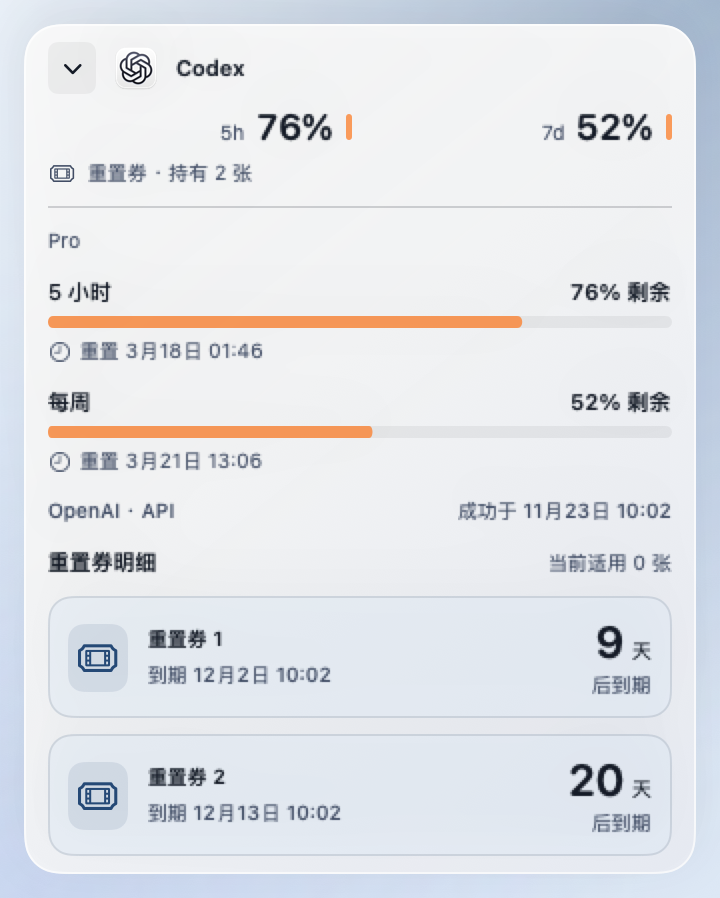
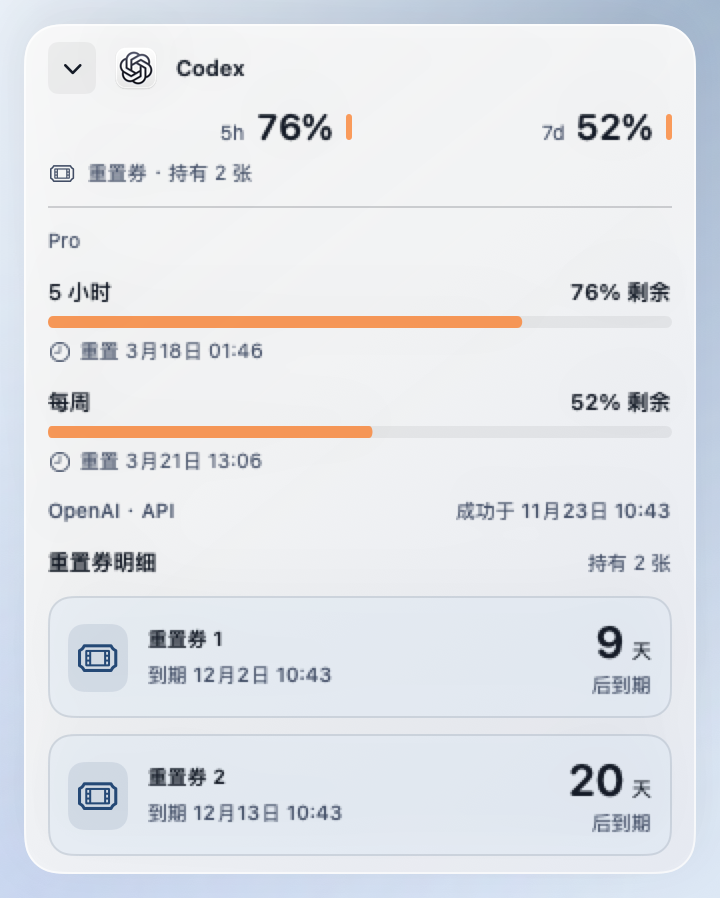
Use owned reset credit counts consistently in v1.4.12
## Summary

```diff
 Expanded reset credit details
- Current applicability: 0
+ Owned credits: 2 (same inventory as the overview)
```

Removes the internal applicability counter from the model and UI so it cannot be mistaken for unavailable or invalid reset credits. Both views use the existing inventory count. Individual cards, expiry dates and the six opt-in reminder stages are unchanged. Updates project documentation and the native preview for v1.4.12 (25).

## Evidence

- **Before:** The user's screenshot shows two owned credit cards beneath a “0 currently applicable” label.
  **After:** Native previews show 2 owned credits in both the overview and expanded header, including the response shape with applicable_available_count=0.
- 179 local tests passed with GET-only real account reads and native popover motion enabled. Existing inventory regression and optional-detail failure tests pass; light/dark and English previews were inspected. Release build passed.

## Merge Danger

**Door:** two-way

**Blast Radius:** macOS

A display/model correction. Does not change reset redemption, expiry notifications or refresh cadence. Windows receives a version bump only.

Changed region(s): [[0.6111, 0.5612, 0.9472, 0.6548], [0.4278, 0.9042, 0.4583, 0.9354], [0.4278, 0.7483, 0.4583, 0.7795]]

diff --git a/Sources/CodexResetCredits.swift b/Sources/CodexResetCredits.swift
@@ -3,17 +3,15 @@ import SwiftUI
 
 struct CodexResetCredits: Equatable, Sendable, Decodable {
     let availableCount: Int
-    let applicableCount: Int?
     var credits: [CodexResetCredit]?
 
-    init(availableCount: Int, applicableCount: Int? = nil, credits: [CodexResetCredit]? = nil) {
+    init(availableCount: Int, credits: [CodexResetCredit]? = nil) {
         self.availableCount = availableCount
-        self.applicableCount = applicableCount
         self.credits = credits
     }
 
     enum CodingKeys: String, CodingKey {
-        case availableCount = "available_count", applicableAvailableCount = "applicable_available_count", credits
+        case availableCount = "available_count", credits
     }
 
     init(from decoder: Decoder) throws {
@@ -23,8 +21,6 @@ struct CodexResetCredits: Equatable, Sendable, Decodable {
             throw DecodingError.dataCorruptedError(forKey: .availableCount, in: c, debugDescription: "Invalid reset count")
         }
         availableCount = count
-        let applicable = try? c.decodeIfPresent(Int.self, forKey: .applicableAvailableCount)
-        applicableCount = applicable.flatMap { (0...count).contains($0) ? $0 : nil }
         credits = try c.decodeIfPresent([CodexResetCredit].self, forKey: .credits)?
             .filter { $0.status == "available" && $0.supported && $0.resetType == "codex_rate_limits" }
             .sorted { ($0.expiresAt ?? .distantFuture, $0.id) < ($1.expiresAt ?? .distantFuture, $1.id) }
@@ -109,8 +105,8 @@ struct CodexResetCreditsDetailView: View {
             HStack {
                 Text(L10n.text("重置券明细")).font(.subheadline.weight(.semibold))
                 Spacer()
-                if let count = model.resetCredits?.applicableCount {
-                    Text(L10n.format("当前适用 %d 张", count)).font(.caption).monitorSecondary()
+                if let snapshot = model.resetCredits {
+                    Text(L10n.format("持有 %d 张", snapshot.availableCount)).font(.caption).monitorSecondary()
                 }
             }
             if let snapshot = model.resetCredits {

diff --git a/Tests/CodexTokenMonitorTests/CodexResetCreditsTests.swift b/Tests/CodexTokenMonitorTests/CodexResetCreditsTests.swift
@@ -19,7 +19,6 @@ private let resetDetailsFixture = """
     let summary = try JSONDecoder().decode(CodexResetCredits.self, from: Data(
         #"{"available_count":3,"applicable_available_count":2}"#.utf8))
     #expect(summary.availableCount == 3)
-    #expect(summary.applicableCount == 2)
     #expect(summary.credits == nil)
     let details = try JSONDecoder().decode(CodexResetCredits.self, from: Data(resetDetailsFixture.utf8))
     #expect(details.availableCount == 2)
@@ -38,7 +37,6 @@ private let resetDetailsFixture = """
     let snapshot = try JSONDecoder().decode(CodexResetCredits.self, from: Data(
         #"{"available_count":2,"applicable_available_count":0}"#.utf8))
     #expect(snapshot.availableCount == 2)
-    #expect(snapshot.applicableCount == 0)
 }
 
 @Test func malformedResetFeatureCannotBreakExistingQuota() throws {
@@ -87,7 +85,6 @@ func resetDetailReadIsOptionalAndUsesOnlyGET(detailsFail: Bool) async throws {
     let result = try await DirectCodexUsageReader(session: session, credentialsURL: url).read()
     #expect(result.primary?.usedPercent == 30)
     #expect(result.resetCredits?.availableCount == 2)
-    #expect(result.resetCredits?.applicableCount == 0)
     #expect(result.resetCredits?.credits?.count == (detailsFail ? nil : 2))
     #expect(result.accountID == "fixture")
 }
@@ -209,7 +206,7 @@ func readsActualCodexResetCreditsWithoutRedeeming() async throws {
     try FileManager.default.createDirectory(at: output, withIntermediateDirectories: true)
     let suite = "reset-preview-\(UUID())", defaults = try #require(UserDefaults(suiteName: suite))
     defer { defaults.removePersistentDomain(forName: suite) }
-    let snapshot = CodexResetCredits(availableCount: 2, applicableCount: 0, credits: [
+    let snapshot = CodexResetCredits(availableCount: 2, credits: [
         .init(id: "first", expiresAt: .now.addingTimeInterval(9.0 * 86400)),
         .init(id: "later", expiresAt: .now.addingTimeInterval(20.0 * 86400))])
     let model = UsageModel(defaults: defaults, readUsage: {

diff --git a/Sources/AppMain.swift b/Sources/AppMain.swift
@@ -1560,7 +1560,6 @@ struct DirectCodexUsageReader {
             if let details = await resetDetails {
                 limits.resetCredits = CodexResetCredits(
                     availableCount: details.availableCount,
-                    applicableCount: payload.resetCredits?.applicableCount,
                     credits: details.credits)
             }
             limits.accountID = auth.tokens.accountID

diff --git a/docs/usage.md b/docs/usage.md
@@ -94,7 +94,7 @@
 
 只检查已启用供应商的本次成功数据，菜单缓存、等待中、缺失数据和错误均不当作零额度。相同低额度不会反复提醒；百分比恢复到阈值以上至少 5 个百分点，或余额恢复到阈值以上至少 $0.50 / 阈值的 10%（取较大值）后，才重新允许提醒。恢复通知需先观察到低额度。临时刷新失败需连续 3 次已完成的失败读取才提醒；登录或密钥异常及已暂停的读取可立即提醒，每次故障只提醒一次，成功读取后重置。
 
-Codex 卡片显示持有的重置券次数，展开后可查看每张券的到期时间（系统本地时区）和剩余天数。接口未提供有效期时显示暂不可用；刷新中保留旧值，旧有效期会标明来源，不把读取失败当成零次。持有数量与当前适用数量分别显示，当前适用为 0 不代表没有持有的券。Monitor 只读取信息，不兑换重置券。
+Codex 卡片显示持有的重置券次数，展开后可查看每张券的到期时间（系统本地时区）和剩余天数。接口未提供有效期时显示暂不可用；刷新中保留旧值，旧有效期会标明来源，不把读取失败当成零次。概览与明细统一显示持有数量，不使用其他内部计数判断重置券是否可用。实际兑换条件请在 Codex 中确认。Monitor 只读取信息，不兑换重置券。
 
 “重置券即将到期”默认关闭；需同时开启通知总开关和该类别。成功读取到有效期后，在到期前 24、12、6、3、1.5、0.5 小时递进提醒，每张券每阶段一次，并跨重启去重；重新启动或恢复监测时仅提醒当前阶段，不补发错过的阶段；已过期、已使用、当前套餐不支持或没有有效期的券不会触发提醒。
 

diff --git a/README.md b/README.md
@@ -16,7 +16,7 @@ Codex Token Monitor 是一个原生桌面额度监控工具。macOS 支持多供
 - **菜单栏常驻**：双行额度、重置时间、固定来源或自动轮播；Windows 在系统托盘显示 Codex 余量。
 - **紧凑概览**：弹窗按内容自动调整高度，最多占所在屏幕可用高度的一半，超出部分滚动查看；可单独或全部展开明细。
 - **稳定刷新**：查询中保留最近一次成功显示，相同结果不重复更新；失败、缺失数据和真实零额度分别处理。
-- **Codex 重置券**：查看持有数量、当前适用数量、逐张有效期与剩余时间。
+- **Codex 重置券**：查看持有数量、逐张有效期与剩余时间。
 - **可选本地通知**：按需选择低额度、额度恢复、刷新失败、登录失效和重置券即将到期提醒，支持阈值、声音与测试通知，默认关闭。
 - **外观与语言**：四套主题，支持浅色、深色、跟随系统、减少动效，以及中文–简体和 English。
 - **Touch Bar**：查看当前供应商额度、重置时间和刷新按钮，彩虹猫随剩余额度联动。
@@ -24,7 +24,7 @@ Codex Token Monitor 是一个原生桌面额度监控工具。macOS 支持多供
 - **便捷安装与更新**：macOS 提供拖拽安装 DMG，App 内可查看版本并手动检查更新。
 
 <p>
-  <img src="docs/images/codex-reset-credits.png" width="360" alt="Codex 额度与持有的重置券、当前适用数量、有效期和剩余时间，示例数据">
+  <img src="docs/images/codex-reset-credits.png" width="360" alt="Codex 额度与持有的重置券、有效期和剩余时间，示例数据">
   <img src="docs/images/popover-adaptive-expanded.png" width="360" alt="展开多供应商明细，额度区域可滚动，示例数据">
 </p>
 

diff --git a/docs/releases/v1.4.12.md b/docs/releases/v1.4.12.md
@@ -1,0 +1,21 @@
+# v1.4.12 · 统一重置券数量 / Consistent Reset Credit Counts
+
+## 中文
+
+- 修正展开明细仍显示“当前适用 0 张”的误导：概览和明细现在统一使用持有数量，持有两张券时两处都显示两张。
+- 不再将其他内部计数用于判断券是否可用。实际兑换条件请在 Codex 中确认；Monitor 仅查看信息。
+- 保留独立重置券卡片、有效期、倒计时，以及可选的 24、12、6、3、1.5、0.5 小时递进提醒。
+
+macOS App 与拖拽安装 DMG 均使用 Developer ID 签名、通过 Apple 公证并附加票据。Windows 仅同步版本号，提供未签名的 x64 ZIP。校验文件为 SHA256SUMS.txt。
+
+升级时先退出旧版，将 DMG 内的 App 拖入 Applications 并替换，确认版本为 **1.4.12 (25)**。
+
+## English
+
+- Fixes the misleading “0 currently applicable” count in expanded details. Both the overview and details now show the owned credit count consistently.
+- Removes the internal applicability counter from the display. Confirm redemption conditions in Codex; Monitor only reads information.
+- Preserves individual credit cards, expiry dates, countdowns and optional reminders at 24, 12, 6, 3, 1.5 and 0.5 hours before expiry.
+
+The macOS app and drag-to-Applications DMG are Developer ID signed, Apple-notarized and stapled. Windows receives a version bump only and includes an unsigned x64 ZIP. SHA-256 checksums are in SHA256SUMS.txt.
+
+Quit the old app, drag the app from the DMG into Applications and replace it. Confirm **1.4.12 (25)**.

diff --git a/ROADMAP.md b/ROADMAP.md
@@ -4,9 +4,13 @@
 
 本文件是当前范围与进度的统一入口。`docs/multi-provider-spec.md`、`docs/warp-and-popover-spec.md` 保留历史阶段的设计和验证记录；与新需求冲突时，以当前代码、本路线图及对应版本说明为准。
 
-“已实现”不等于“所有账号已实测”。当前版本为 **v1.4.11 正式版**：概览弹窗随内容自适应，最多占当前屏幕可用高度的一半，明细展开和窗口高度使用同步过渡；保留分类本地通知、更新检查、稳定刷新、独立 Argon 额度和 DMG 安装器。macOS App 与 DMG 使用 Developer ID 签名并通过 Apple 公证。安装包及发布状态以 [GitHub Releases](https://github.com/Naja404/codex-token-monitor/releases/latest) 为准。
+“已实现”不等于“所有账号已实测”。当前版本为 **v1.4.12 正式版**：概览弹窗随内容自适应，最多占当前屏幕可用高度的一半，明细展开和窗口高度使用同步过渡；保留分类本地通知、更新检查、稳定刷新、独立 Argon 额度和 DMG 安装器。macOS App 与 DMG 使用 Developer ID 签名并通过 Apple 公证。安装包及发布状态以 [GitHub Releases](https://github.com/Naja404/codex-token-monitor/releases/latest) 为准。
 
 ## 已完成
+
+### v1.4.12 重置券数量口径
+
+- 概览与明细统一显示持有数量，移除容易被误认为券不可用的内部计数；卡片样式与六阶段到期提醒保持不变。详见 [v1.4.12 说明](docs/releases/v1.4.12.md)。
 
 ### v1.4.11 Codex 重置券
 
